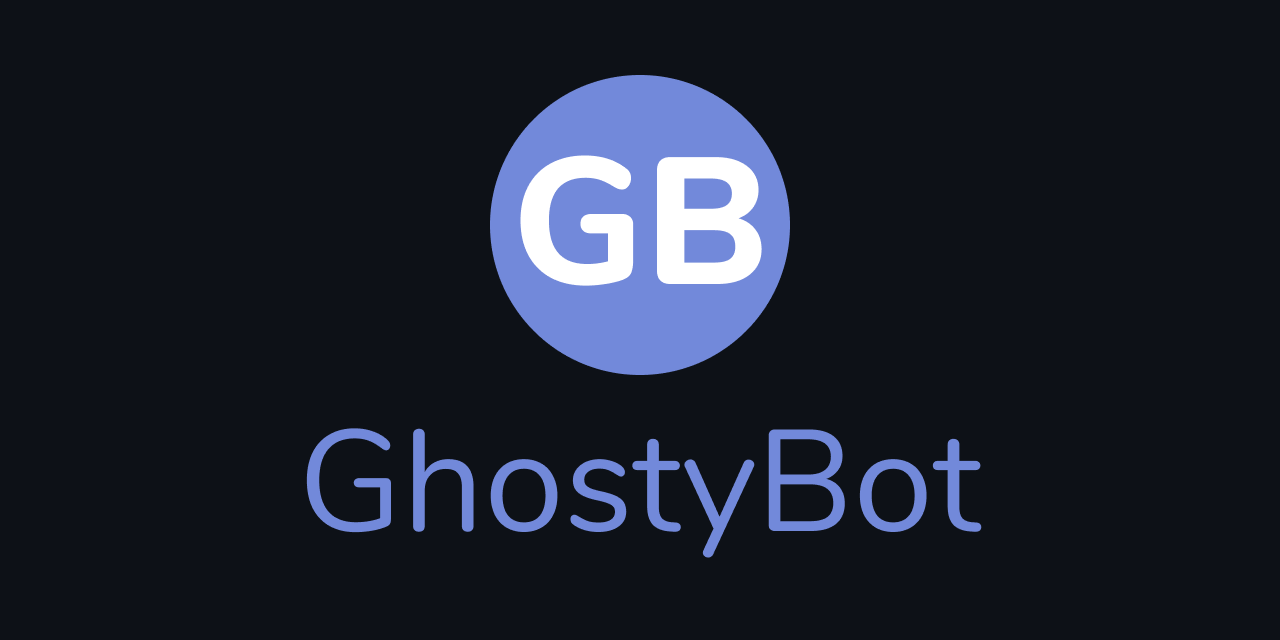
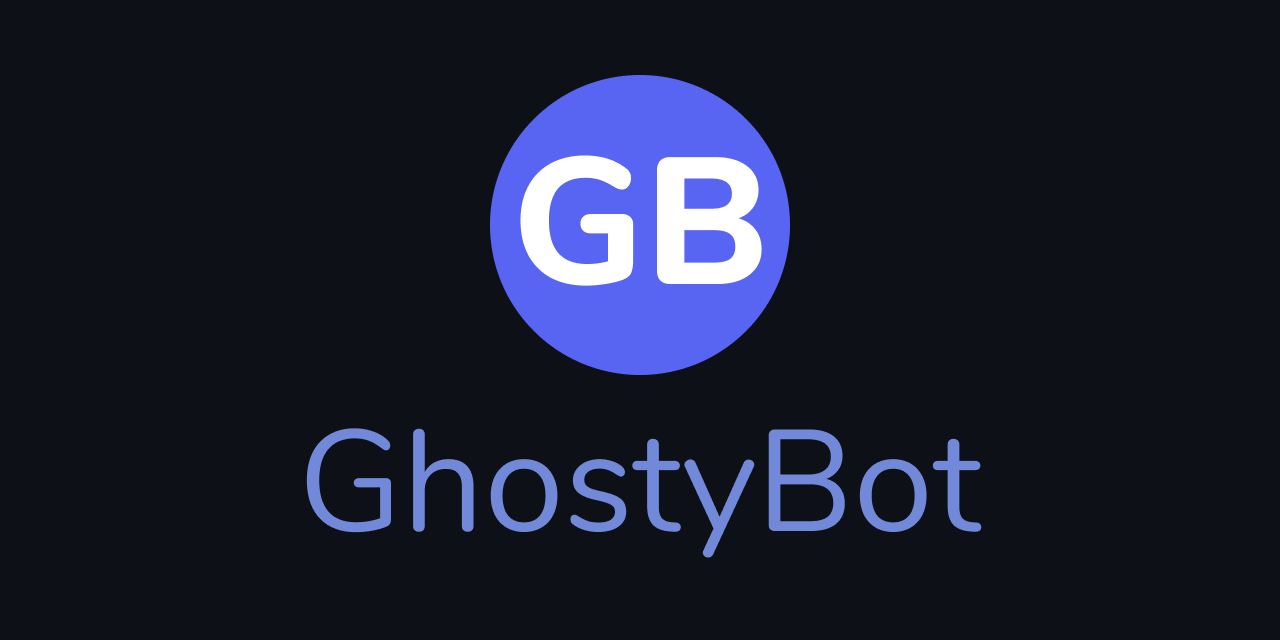
:tada: NEW: update color

Changed region(s): [[0.375, 0.0938, 0.625, 0.5938]]

diff --git a/src/pages/_document.tsx b/src/pages/_document.tsx
@@ -26,7 +26,7 @@ class Ghostybot extends Document {
 
           {/* <!-- Meta Tags Generated via https://www.opengraph.xyz --> */}
           {/* <!-- Facebook Meta Tags --> */}
-          <meta property="og:color" content="#7289da" />
+          <meta property="og:color" content="#5865f2" />
           <meta property="og:url" content="https://ghostybot.tk" />
           <meta property="og:type" content="website" />
           <meta
@@ -59,7 +59,7 @@ class Ghostybot extends Document {
           <link rel="manifest" href="/manifest.json" />
           <link rel="mask-icon" href="/favicons/safari-pinned-tab.svg" color="#5bbad5" />
           <meta name="msapplication-TileColor" content="#da532c" />
-          <meta name="theme-color" content="#7289da" />
+          <meta name="theme-color" content="#5865f2" />
         </Head>
         <body>
           <Main />

diff --git a/src/commands/util/docs.ts b/src/commands/util/docs.ts
@@ -28,7 +28,7 @@ export default class DocsCommand extends Command {
       const embed = {
         ...data,
         author: {},
-        color: "#7289DA",
+        color: "#5865f2",
         footer: {
           text: message.author.username,
           icon_url: message.author.displayAvatarURL({ dynamic: true }),

diff --git a/src/structures/Bot.ts b/src/structures/Bot.ts
@@ -81,10 +81,10 @@ class Bot extends Client {
       updateCountdownEvery: 10000,
 
       default: {
-        embedColor: "#7289DA",
+        embedColor: "#5865f2",
         botsCanWin: false,
         reaction: "🎉",
-        embedColorEnd: "#7289DA",
+        embedColorEnd: "#5865f2",
       },
     });
 

diff --git a/src/utils/Util.ts b/src/utils/Util.ts
@@ -471,7 +471,7 @@ export default class Util {
 
     return new MessageEmbed()
       .setFooter(message.author?.username, avatar)
-      .setColor("#7289DA")
+      .setColor("#5865f2")
       .setTimestamp();
   }
 

diff --git a/src/dashboard/css/index.css b/src/dashboard/css/index.css
@@ -2,7 +2,7 @@
   --primary: #2f3136;
   --secondary: #36393f;
   --dark: #18191c;
-  --blue: #7289da;
+  --blue: #5865f2;
   --red: #e44444;
   --content-width: 95%;
   --main-br: 0.3rem;

diff --git a/src/dashboard/css/nprogress.css b/src/dashboard/css/nprogress.css
@@ -12,7 +12,7 @@
   left: 0;
 
   width: 100%;
-  height: 3px;
+  height: 2px;
 }
 
 /* Remove these to get rid of the spinner */

diff --git a/docs/COMMANDS.md b/docs/COMMANDS.md
@@ -525,7 +525,7 @@ Click any of the command names for more information
   
 
 ## Detailed command list
-  
+
 ## addcmd
 
 **Category:** admin
